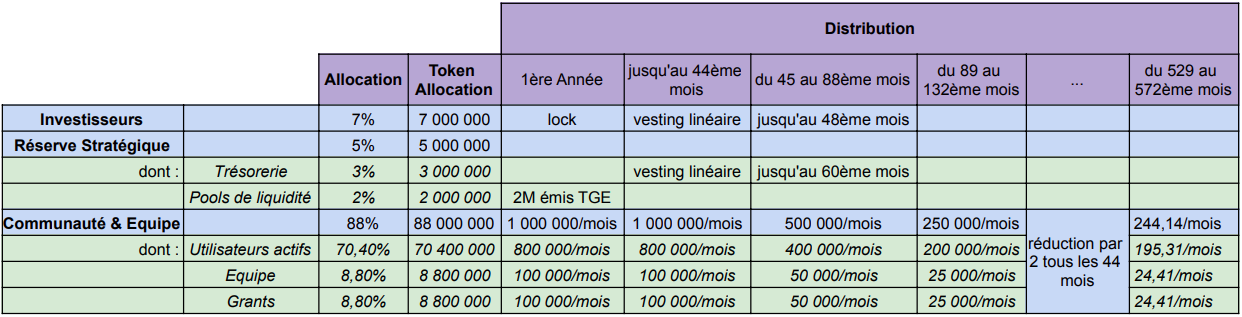
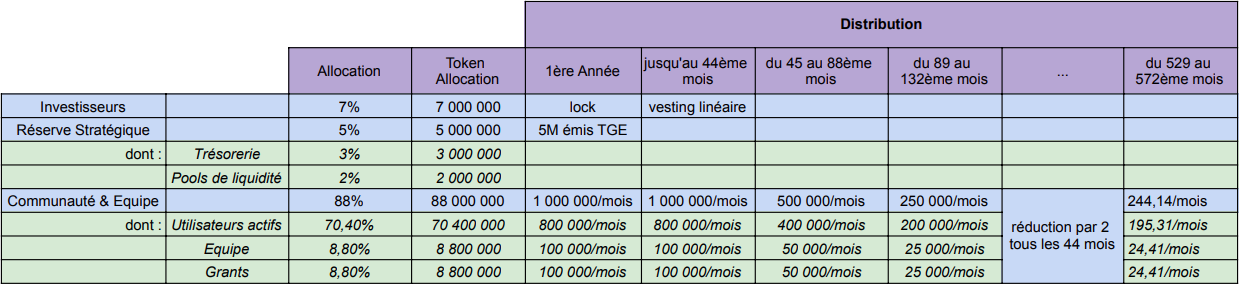
GITBOOK-27: No subject

Changed region(s): [[0.0, 0.0, 1.0, 1.0], [0.6435, 0.0559, 0.7661, 0.1119]]

diff --git a/modele-economique/le-jeton-dcast/copy-of-tokenomics/README.md b/modele-economique/le-jeton-dcast/copy-of-tokenomics/README.md
@@ -28,25 +28,19 @@ Le nombre total de jetons est fixé à _**100 millions**_.
 
 La distribution totale des tokens DCAST est prévue comme suit:
 
-* **Investisseurs (Private seed)** : 7% (7M)
-  * Blocage d'1 an puis distribution linéaire sur 3 ans
-*   **Réserve stratégique** : 5% (5M)
+* **Investisseurs** : 7% (7M)
+  * _<mark style="color:purple;">**Seed Round**</mark>_ : 7% (7M) - Blocage d'1 an puis distribution linéaire sur 3 ans
+* **Communauté** : 88% (88M)
+  * L'émission des tokens suit un **plan de** **distribution mensuel** : initialement, 1 million de tokens seront distribués chaque mois pendant les premiers 44 mois, réparti suivant l'activité du mois précédent. À l'issue de cette période, un **halving** (réduction de moitié de l'émission mensuelle) interviendra tous les 44 mois, continuant ainsi jusqu'à atteindre le plafond total de 88 millions de tokens émis.
+  * _<mark style="color:purple;">**Utilisateurs actifs**</mark>_ : 70,4% (70,4M) (80% de la distribution mensuelle)
+  * _<mark style="color:purple;">**Grants**</mark>_ : 8,8% (8,8M) (10% de la distribution mensuelle)
+  * _<mark style="color:purple;">**Pools de liquidité**</mark>_ : 2% (2M) - Emission TGE
+* **Equipe** : 8,8% (8,8M) (10% de la distribution mensuelle)
+  * distribution identique à la communauté
+* **Réserve stratégique** : 3% (3M)
+  * _<mark style="color:purple;">**Trésorerie**</mark>_ : 3% (3M) - Distribution linéaire sur 60 mois&#x20;
 
-    Répartition :
-
-    * _<mark style="color:purple;">**Trésorerie**</mark>_ : 3% (3M) - Distribution linéaire sur 60 mois&#x20;
-    * _<mark style="color:purple;">**Pools de liquidité**</mark>_ : 2% (2M) - Emission TGE
-*   **Communauté et Equipe** : 88% (88M)
-
-    * L'émission des tokens suit un **plan de** **distribution mensuel** : initialement, 1 million de tokens seront distribués chaque mois pendant les premiers 44 mois, réparti suivant l'activité du mois précédent. À l'issue de cette période, un **halving** (réduction de moitié de l'émission mensuelle) interviendra tous les 44 mois, continuant ainsi jusqu'à atteindre le plafond total de 88 millions de tokens émis.
-
-    Répartition :&#x20;
-
-    * _<mark style="color:purple;">**Utilisateurs actifs**</mark>_ : 70,4% (70,4M) (80% de la distribution mensuelle)
-    * _<mark style="color:purple;">**Equipe**</mark>_ : 8,8% (8,8M) (10% de la distribution mensuelle)
-    * _<mark style="color:purple;">**Grants**</mark>_ : 8,8% (8,8M) (10% de la distribution mensuelle)
-
-<figure><img src="../../../.gitbook/assets/image (1).png" alt=""><figcaption><p>Répartition du token</p></figcaption></figure>
+<figure><img src="../../../.gitbook/assets/image.png" alt=""><figcaption><p>Répartition des tokens</p></figcaption></figure>
 
 ### **Évolution de l'offre en circulation**
 

diff --git a/modele-economique/le-jeton-dcast/copy-of-tokenomics/distribution-des-commissions.md b/modele-economique/le-jeton-dcast/copy-of-tokenomics/distribution-des-commissions.md
@@ -22,7 +22,7 @@ Au début de chaque mois, les jetons DCAST sont répartis en fonction des revenu
 
 ### Critères de calcul
 
-La distribution de jetons DCAST est calculée en fonction des transactions de vente effectuées en USDC, MATIC, WETH et WBTC. Les paiements avec d'autres cryptomonnaies ne seront inclus que s'ils sont ultérieurement ajoutés à la liste blanche après une [décision de la gouvernance](../vedcast-and-vedcastlp/gouvernance.md). Cette approche sélective a pour objectif d'éviter toute manipulation artificielle de la répartition des récompenses et d'encourager l'apport en trésorerie d'actifs liquides et de valeur avérée.
+La distribution de jetons DCAST est calculée en fonction des transactions de vente effectuées en USDC, USDT, MATIC, WETH et WBTC. Les paiements avec d'autres cryptomonnaies ne seront inclus que s'ils sont ultérieurement ajoutés à la liste blanche après une [décision de la gouvernance](../vedcast-and-vedcastlp/gouvernance.md). Cette approche sélective a pour objectif d'éviter toute manipulation artificielle de la répartition des récompenses et d'encourager l'apport en trésorerie d'actifs liquides et de valeur avérée.
 
 Les contributions sont calculées en dollars américains, en utilisant le taux de change en vigueur lors de la distribution mensuelle des récompenses, qui intervient le premier jour de chaque mois.
 
